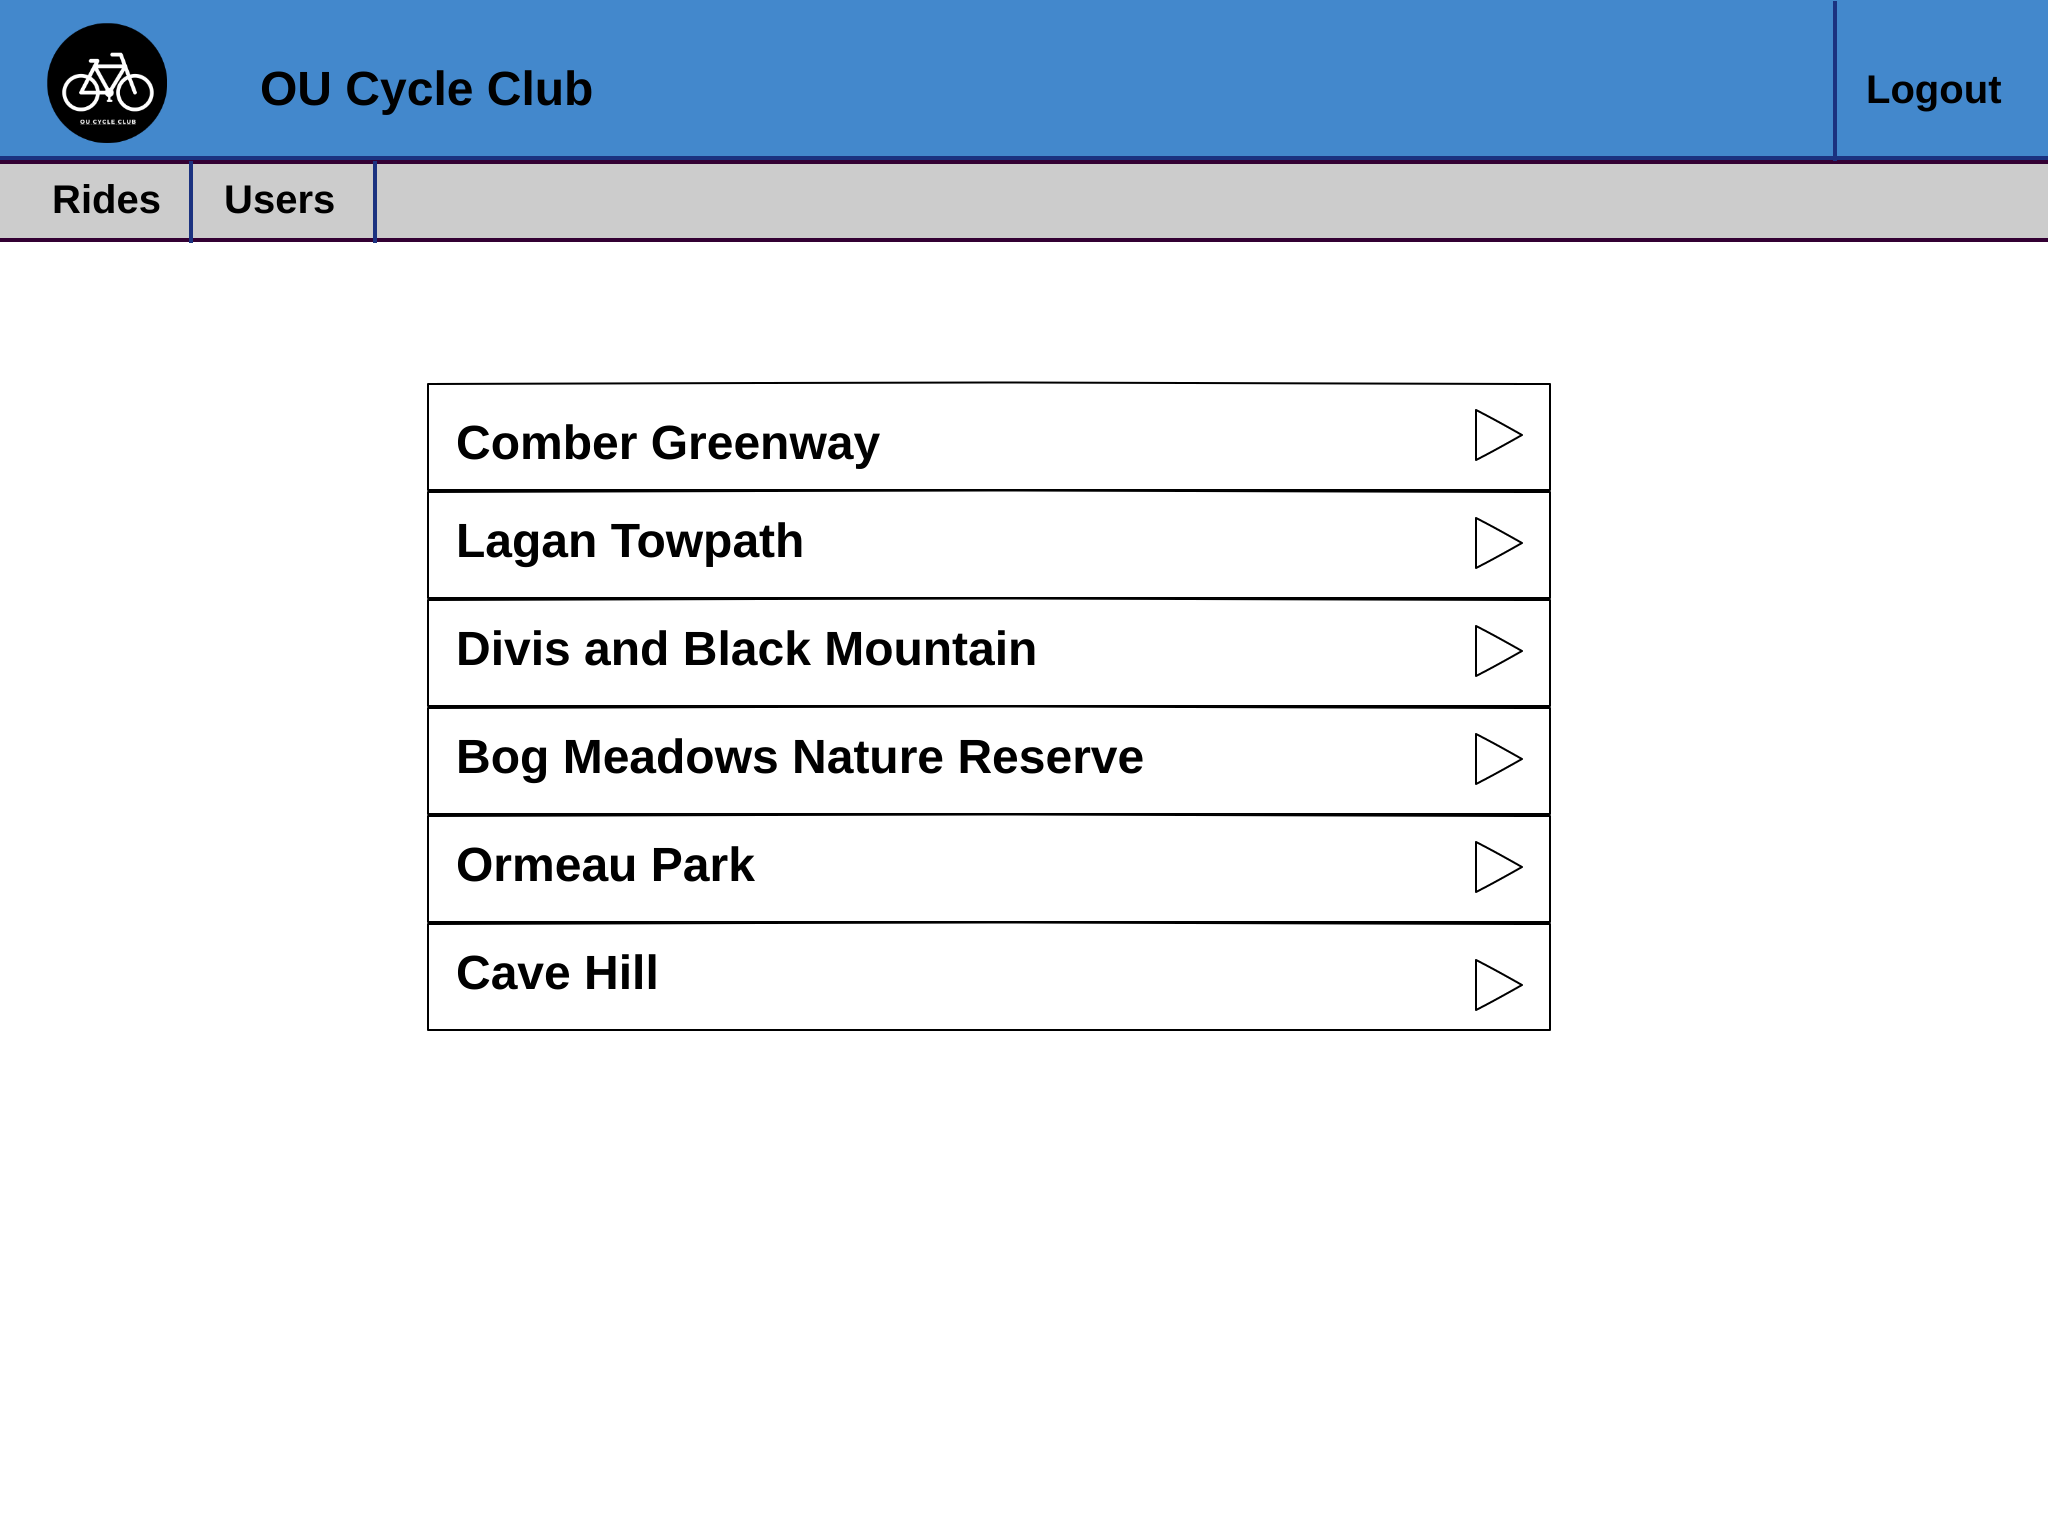
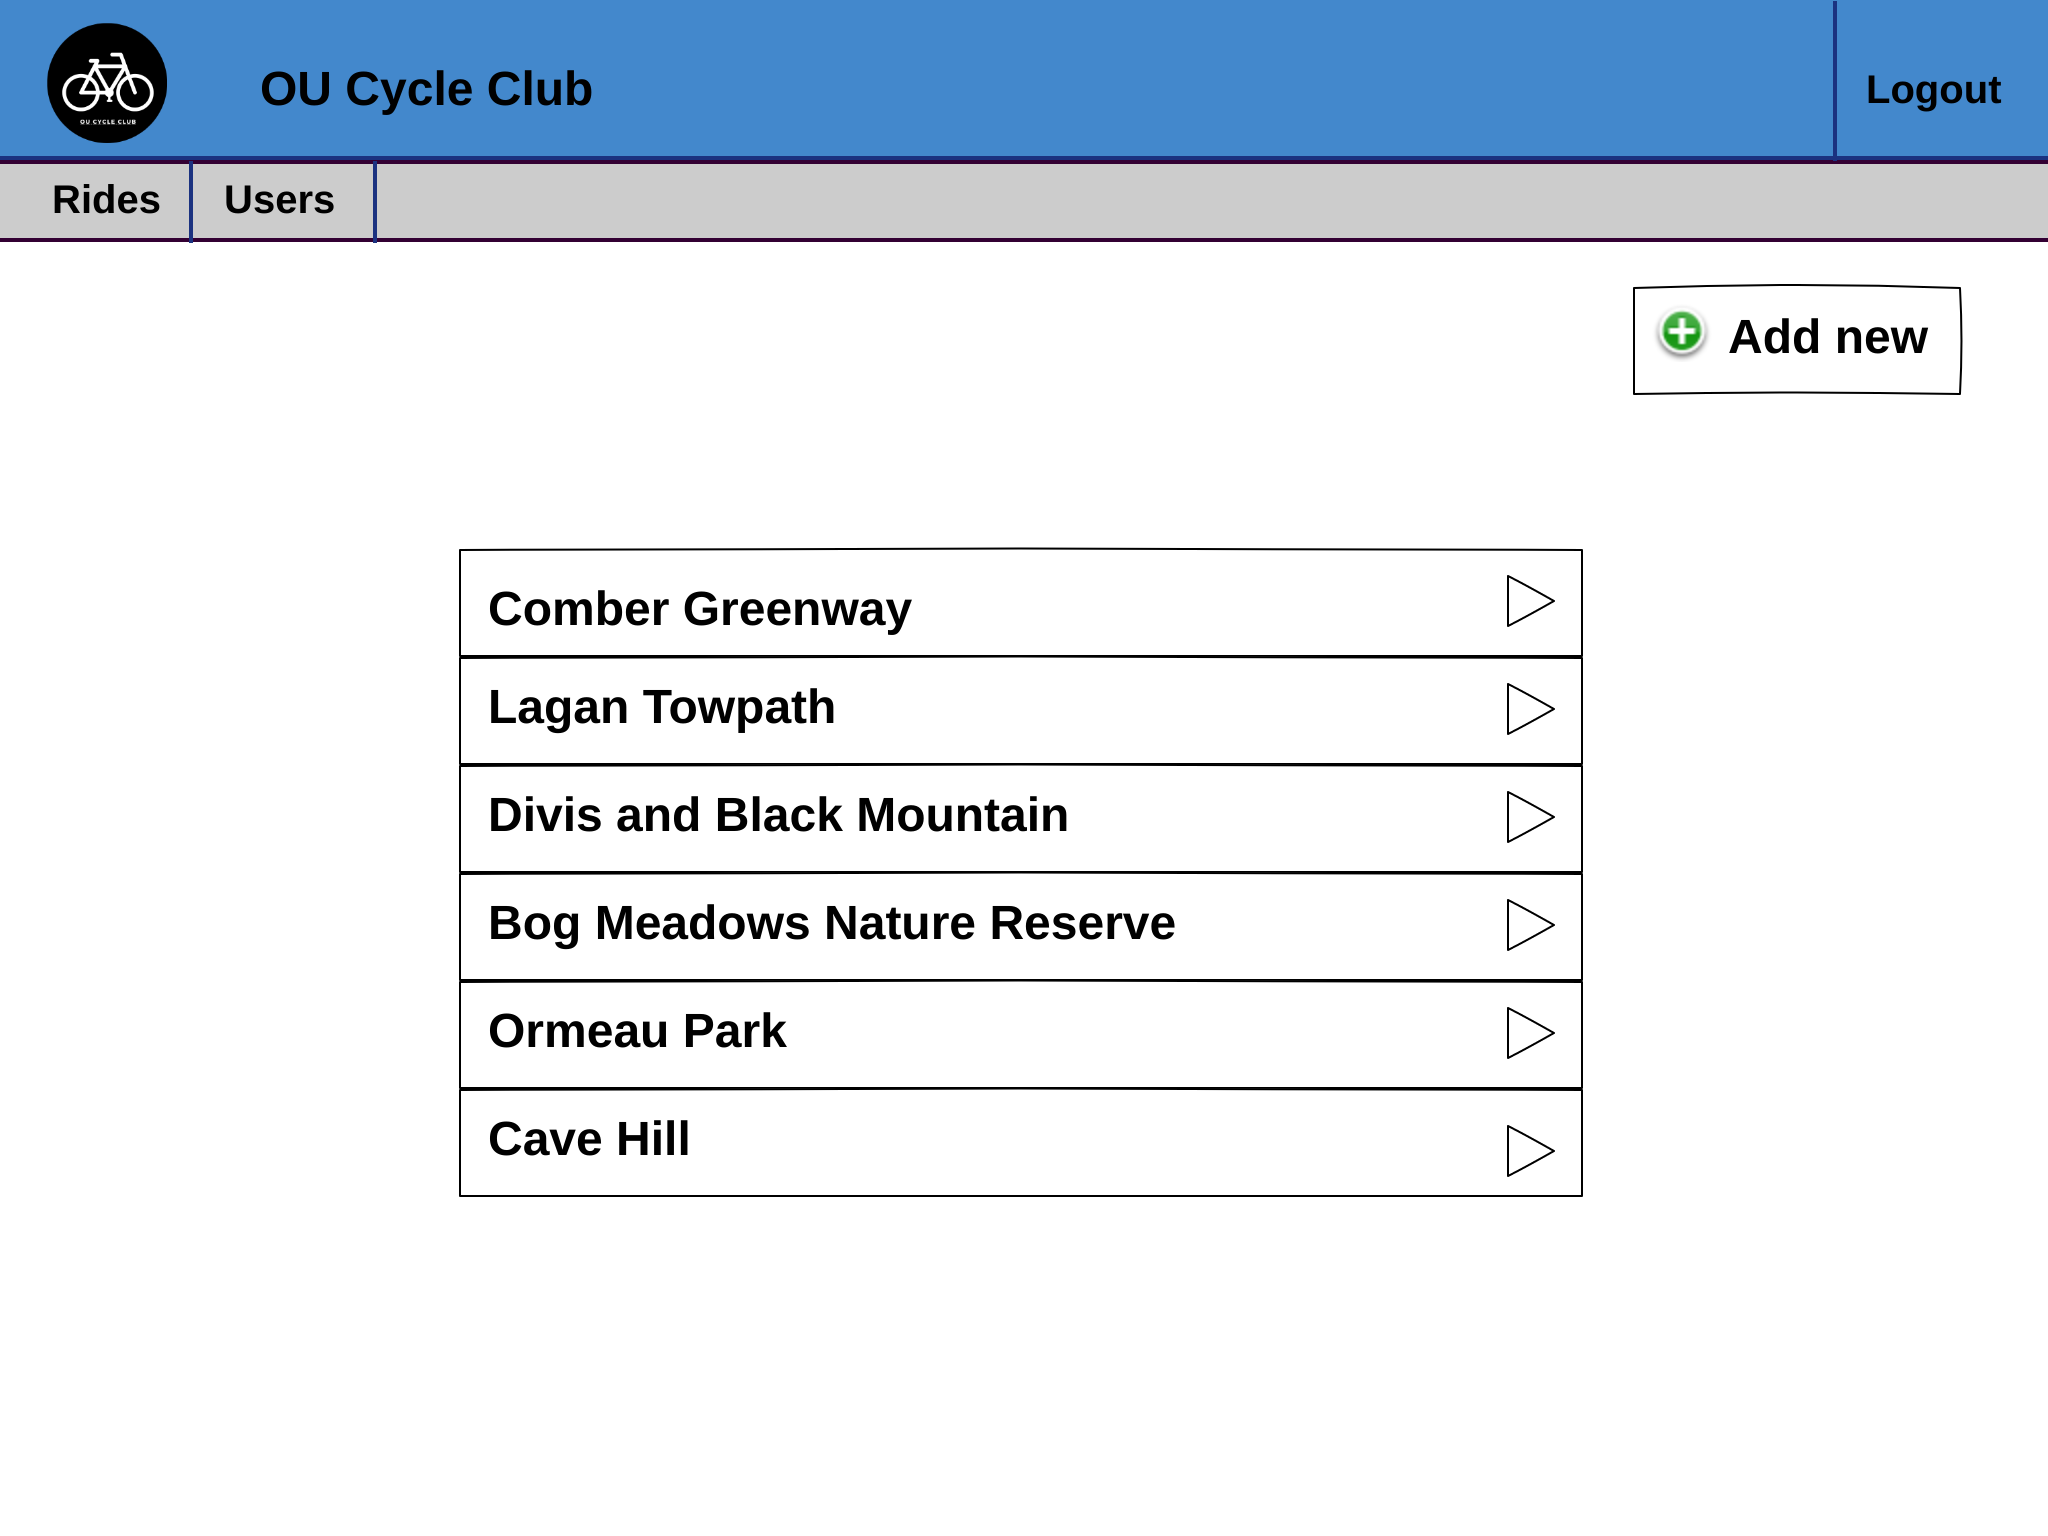
adding an add new button to ride list page

diff --git a/Wireframes/Wireframes Export/index.html b/Wireframes/Wireframes Export/index.html
@@ -1,2 +1,2 @@
 <html xmlns="http://www.w3.org/1999/xhtml" xmlns:p="http://www.evolus.vn/Namespace/Pencil" xmlns:html="http://www.w3.org/1999/xhtml"><head><meta http-equiv="Content-Type" content="text/html; charset=UTF-8" />
-<title>Pencil Wireframes</title><link rel="stylesheet" href="Resources/SampleStyle.css" /></head><body><h1 id="documentTitle">Pencil Wireframes</h1><p id="documentMetadata">Exported at: Fri Nov 29 2024 16:59:29 GMT+0000 (Greenwich Mean Time)</p><div class="Page" id="login_page"><h2>Login</h2><div class="ImageContainer"><img src="pages/login.png" width="NaN" height="NaN" usemap="#map_login" /></div><map name="map_login"></map></div><div class="Page" id="rides_list_page"><h2>Rides List</h2><div class="ImageContainer"><img src="pages/rides_list.png" width="NaN" height="NaN" usemap="#map_rides_list" /></div><map name="map_rides_list"></map></div><div class="Page" id="ride_details_update_page"><h2>Ride Details (Update)</h2><div class="ImageContainer"><img src="pages/ride_details_update.png" width="NaN" height="NaN" usemap="#map_ride_details_update" /></div><map name="map_ride_details_update"></map></div></body></html>
+<title>Pencil Wireframes</title><link rel="stylesheet" href="Resources/SampleStyle.css" /></head><body><h1 id="documentTitle">Pencil Wireframes</h1><p id="documentMetadata">Exported at: Fri Nov 29 2024 17:11:10 GMT+0000 (Greenwich Mean Time)</p><div class="Page" id="login_page"><h2>Login</h2><div class="ImageContainer"><img src="pages/login.png" width="NaN" height="NaN" usemap="#map_login" /></div><map name="map_login"></map></div><div class="Page" id="rides_list_page"><h2>Rides List</h2><div class="ImageContainer"><img src="pages/rides_list.png" width="NaN" height="NaN" usemap="#map_rides_list" /></div><map name="map_rides_list"></map></div><div class="Page" id="ride_details_update_page"><h2>Ride Details (Update)</h2><div class="ImageContainer"><img src="pages/ride_details_update.png" width="NaN" height="NaN" usemap="#map_ride_details_update" /></div><map name="map_ride_details_update"></map></div></body></html>
